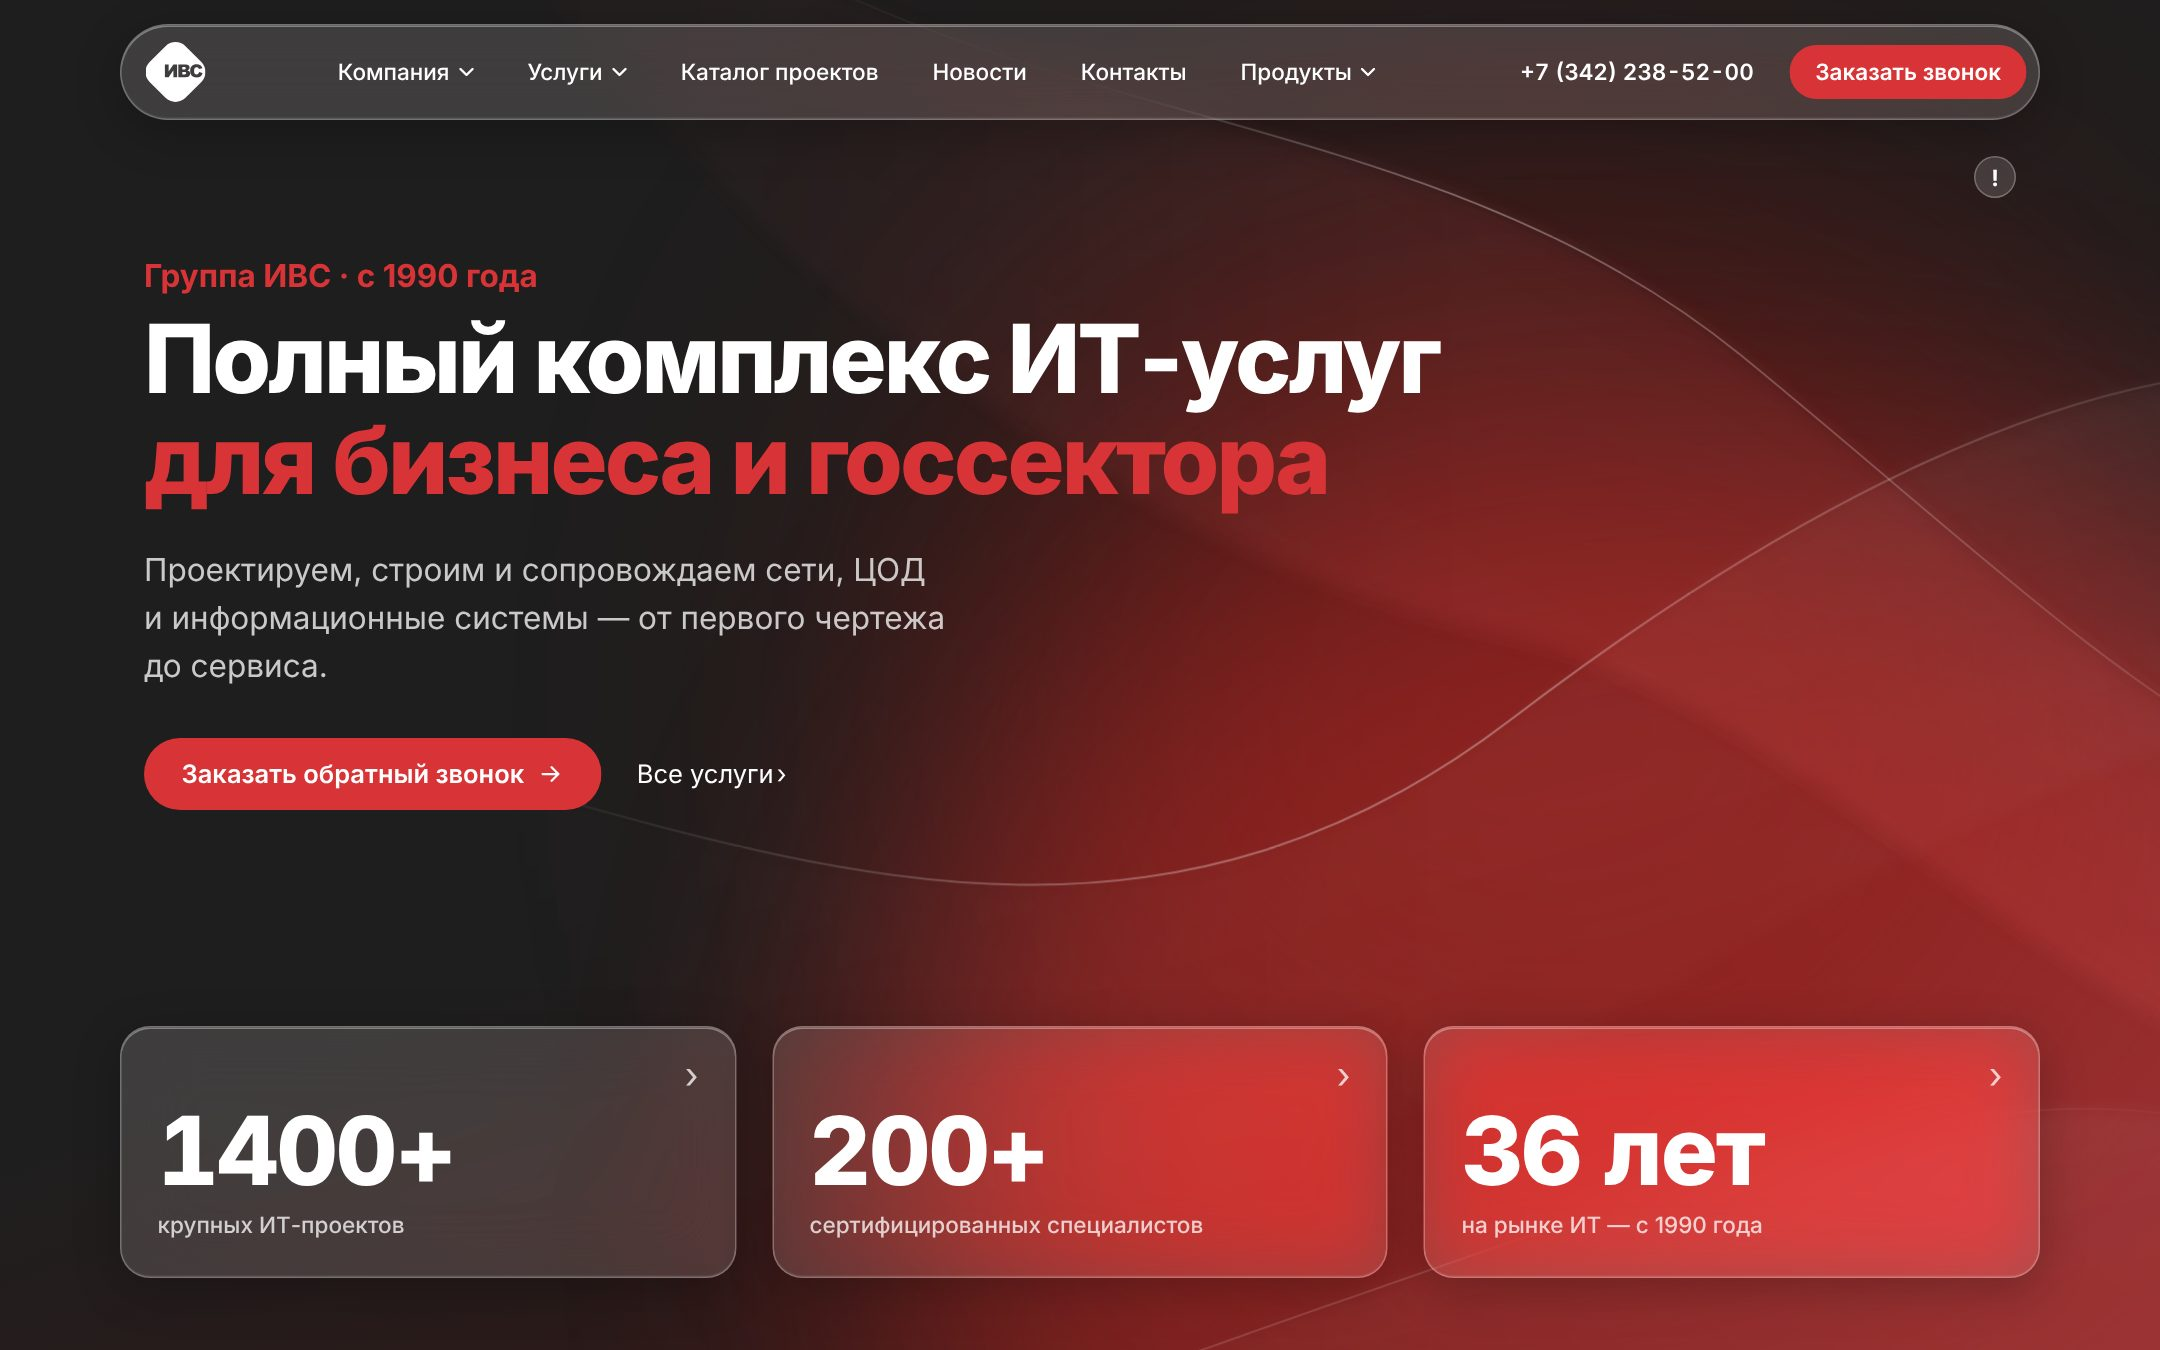
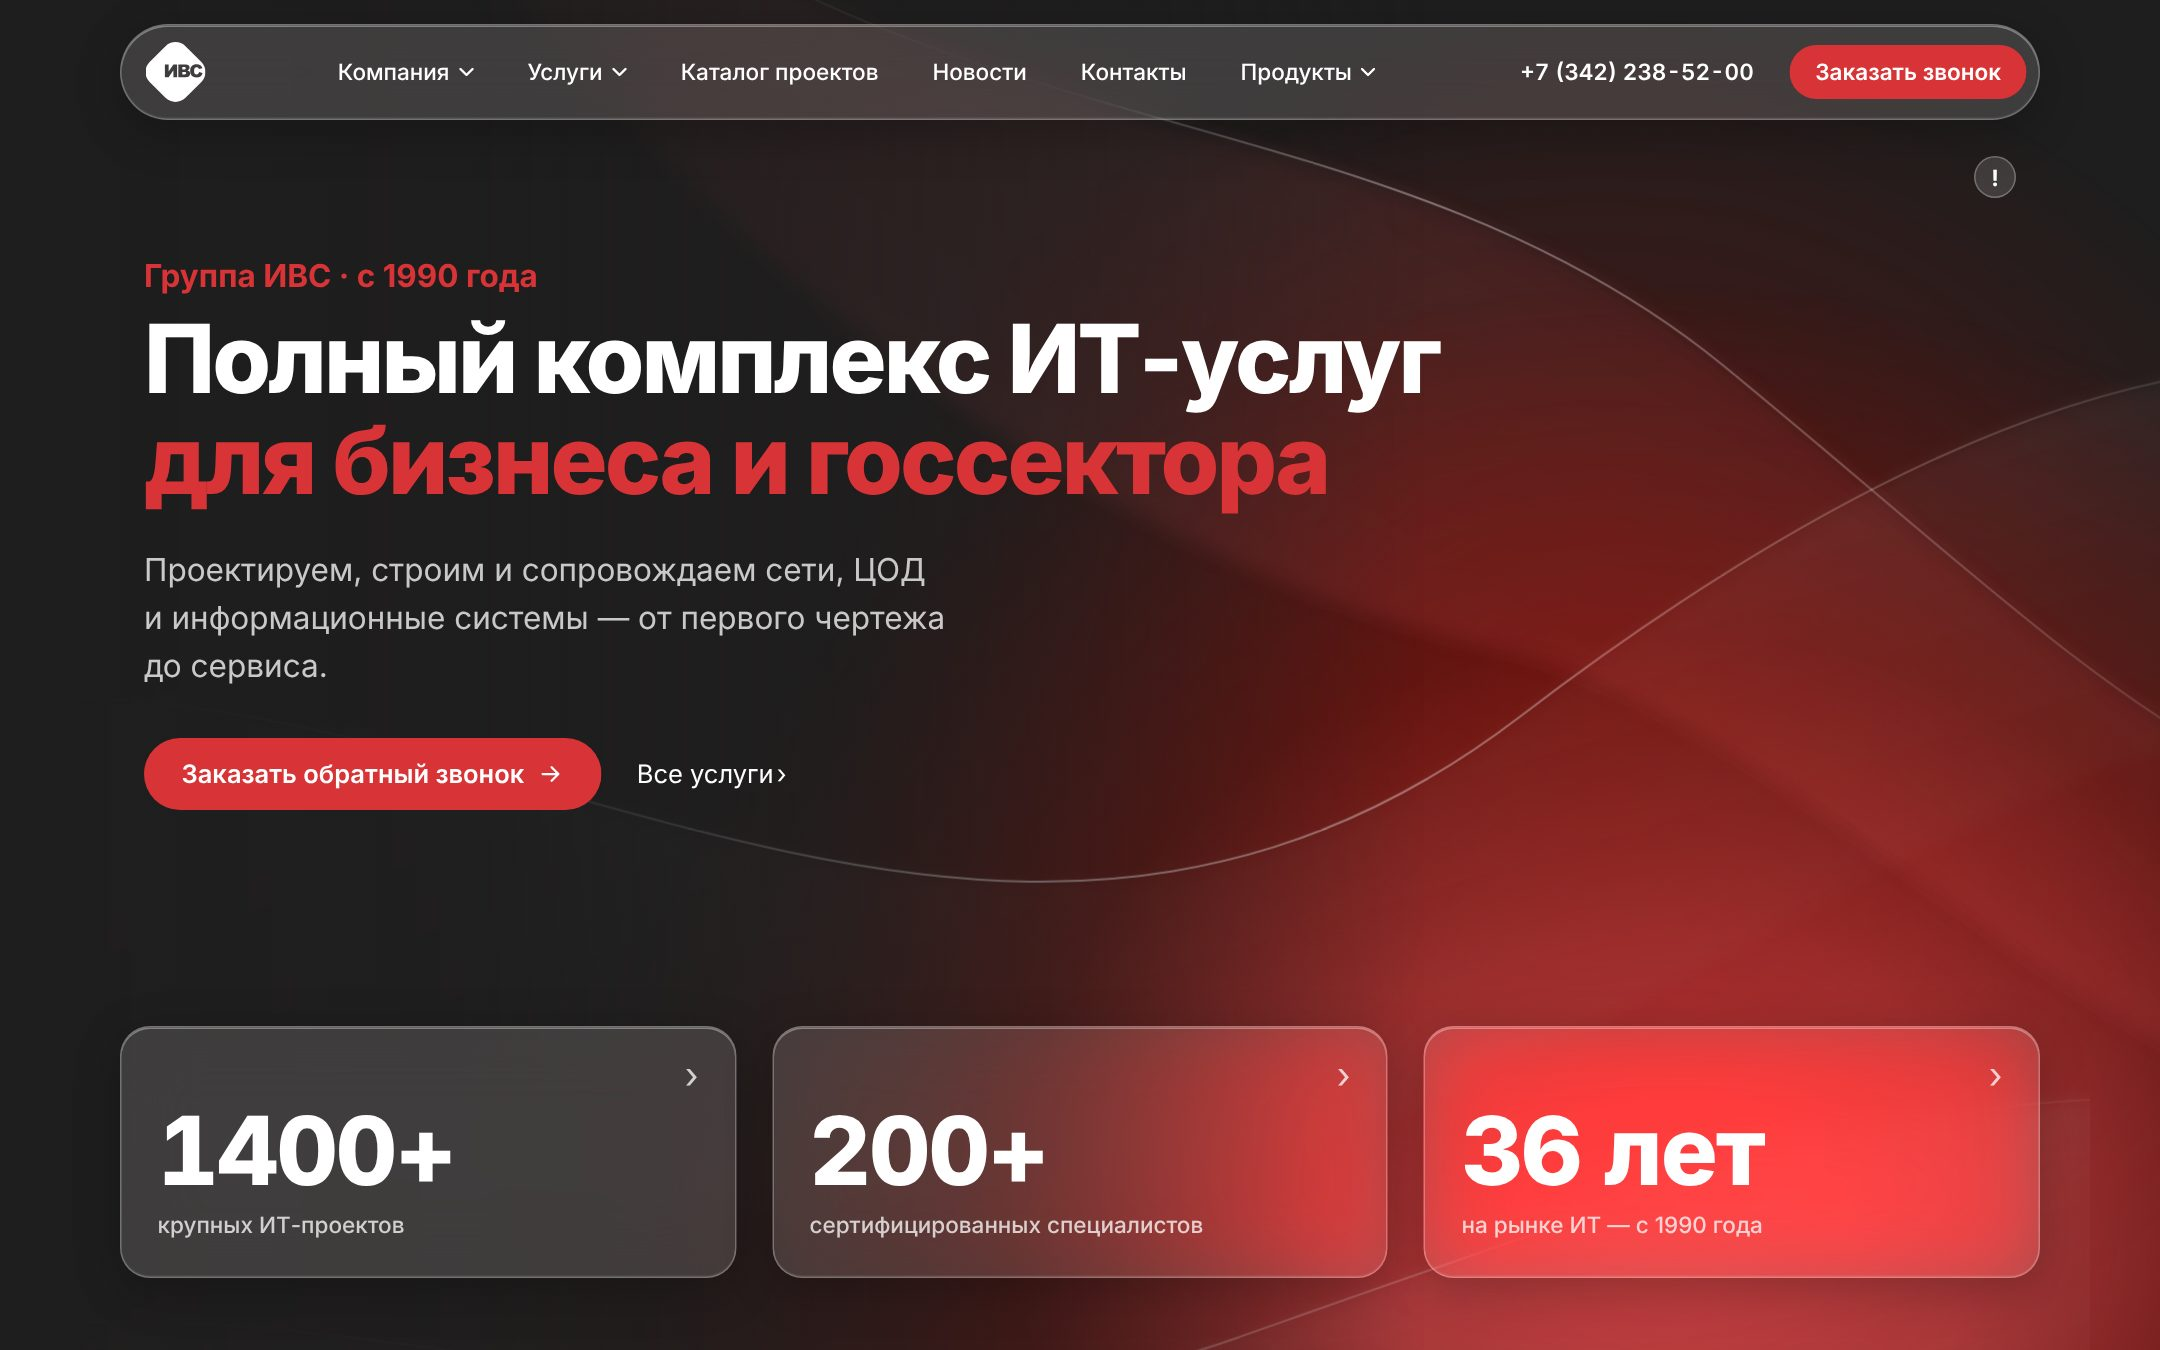
Вариант 3: облегчён фон — анимации не должны вставать в Safari
Варианты 1 и 2 у Антона анимируются нормально, а вариант 3 — нет.
Отличие было в фоне: filter: blur(96–120px) на постоянно движущихся
пятнах, SVG-фильтр внутри анимированных лент и маска на движущемся
слое — Safari пересчитывает это каждый кадр.

- Свет — радиальные градиенты без filter (как в варианте 1).
- Каждая лента текстуры — отдельный <svg>-слой: растрируется один раз,
  двигается только transform.
- Маска заменена неподвижным затемнением слева.

Claude-Session: https://claude.ai/code/session_013YVzMjnByXRWr34o2jWeTj

diff --git a/app/v3/v3.module.css b/app/v3/v3.module.css
@@ -38,6 +38,10 @@
   position: absolute;
 }
 
+/* Фон собран только из лёгких слоёв: радиальные градиенты без filter, ленты-SVG растрируются один раз,
+   двигается всё через transform. Тяжёлые filter: blur() и маски на движущихся слоях Safari пересчитывает
+   каждый кадр — анимации встают. */
+
 /* слои параллакса: с запасом по краям, чтобы при сдвиге за мышью не открывался край */
 .layerGlow,
 .layerTexture {
@@ -46,35 +50,42 @@
 }
 
 .layerGlow > *,
-.layerTexture > * {
+.texIntro > * {
   position: absolute;
 }
 
-/* фирменный красный свет — в правом нижнем углу, как .ivs-stage::before в ДС: gradient-brand, размытый.
-   Левая часть экрана остаётся графитовой — под текстом спокойно. */
+.texIntro {
+  position: absolute;
+  inset: 0;
+}
+
+/* фирменный красный свет — в правом нижнем углу: точки gradient-brand (red_light → red_deep),
+   разведённые радиальным градиентом. Левая часть остаётся графитовой — под текстом спокойно. */
 .glow {
-  right: -16%;
-  bottom: -34%;
-  width: 72%;
-  height: 92%;
-  border-radius: var(--radius-full);
-  background: var(--gradient-brand);
-  opacity: 0.62;
-  filter: blur(96px);
+  right: -22%;
+  bottom: -48%;
+  width: 90%;
+  height: 120%;
+  border-radius: 50%;
+  background: radial-gradient(
+    closest-side,
+    rgba(216, 67, 70, 0.95) 0%,
+    rgba(216, 67, 70, 0.7) 30%,
+    rgba(136, 19, 12, 0.42) 62%,
+    rgba(136, 19, 12, 0) 100%
+  );
   will-change: transform;
   animation: breathe 9s cubic-bezier(0.45, 0, 0.55, 1) infinite alternate;
 }
 
-/* глубокий подсвет над основным — растягивает переход «тёмный → красный» по диагонали к центру справа */
+/* глубокий подсвет — растягивает переход «тёмный → красный» по диагонали к центру справа */
 .glowSide {
-  right: 4%;
-  top: 18%;
-  width: 46%;
-  height: 60%;
-  border-radius: var(--radius-full);
-  background: var(--red_deep);
-  opacity: 0.45;
-  filter: blur(120px);
+  right: -6%;
+  top: 4%;
+  width: 60%;
+  height: 84%;
+  border-radius: 50%;
+  background: radial-gradient(closest-side, rgba(136, 19, 12, 0.55) 0%, rgba(136, 19, 12, 0) 100%);
   will-change: transform;
   animation: drift 11s cubic-bezier(0.45, 0, 0.55, 1) infinite alternate;
   animation-delay: -4s;
@@ -92,14 +103,17 @@
   }
 }
 
-/* стеклянная текстура: правая половина экрана; к тексту слева гаснет */
-.glassSvg,
+/* ленты стекла: каждая — свой слой, плывёт через transform */
+.band,
 .textureImg {
   inset: 0;
   width: 100%;
   height: 100%;
-  mask-image: linear-gradient(90deg, transparent 18%, rgba(0, 0, 0, 0.35) 42%, #000 68%);
-  -webkit-mask-image: linear-gradient(90deg, transparent 18%, rgba(0, 0, 0, 0.35) 42%, #000 68%);
+}
+
+.band {
+  will-change: transform;
+  animation: float 12s cubic-bezier(0.45, 0, 0.55, 1) infinite alternate;
 }
 
 .textureImg {
@@ -108,19 +122,13 @@
   mix-blend-mode: screen;
 }
 
-.glassBandA,
-.glassBandB,
-.glassBandC {
-  animation: float 12s cubic-bezier(0.45, 0, 0.55, 1) infinite alternate;
-}
-
-.glassBandB {
+.bandB {
   animation-name: floatBack;
   animation-duration: 15s;
   animation-delay: -6s;
 }
 
-.glassBandC {
+.bandC {
   animation-duration: 10s;
   animation-delay: -3s;
 }
@@ -135,6 +143,12 @@
   to {
     transform: translate3d(110px, -60px, 0);
   }
+}
+
+/* затемнение слева — цвет gradient-ink; текстура и свет гаснут к тексту */
+.shade {
+  inset: 0;
+  background: linear-gradient(90deg, #1f1e1e 0%, rgba(31, 30, 30, 0.92) 22%, rgba(31, 30, 30, 0.55) 42%, rgba(31, 30, 30, 0) 66%);
 }
 
 /* ================= Шапка — NavBar ДС в «жидком стекле» ================= */
@@ -841,36 +855,27 @@
   opacity: 0;
 }
 
-:global(.ivs-motion) .glassSvg,
-:global(.ivs-motion) .textureImg {
+:global(.ivs-motion) .texIntro {
   opacity: 0;
   transform: scale(1.08);
 }
 
 .hero[data-visible] .glow {
-  opacity: 0.62;
+  opacity: 1;
   transition: opacity 1400ms var(--ease-out);
 }
 
 .hero[data-visible] .glowSide {
-  opacity: 0.5;
+  opacity: 1;
   transition: opacity 1400ms var(--ease-out) 200ms;
 }
 
-.hero[data-visible] .glassSvg,
-.hero[data-visible] .textureImg {
+.hero[data-visible] .texIntro {
+  opacity: 1;
   transform: none;
   transition:
     opacity 1600ms var(--ease-out) 100ms,
     transform 1800ms var(--ease-out) 100ms;
-}
-
-.hero[data-visible] .glassSvg {
-  opacity: 1;
-}
-
-.hero[data-visible] .textureImg {
-  opacity: 0.5;
 }
 
 /* ================= Hover — только мышь ================= */
@@ -1067,15 +1072,13 @@
 @media (prefers-reduced-motion: reduce) {
   .glow,
   .glowSide,
-  .glassBandA,
-  .glassBandB,
-  .glassBandC {
+  .band {
     animation: none;
   }
   :global(.ivs-motion) .reveal,
   .hero[data-visible] .reveal,
-  :global(.ivs-motion) .glassSvg,
-  .hero[data-visible] .glassSvg {
+  :global(.ivs-motion) .texIntro,
+  .hero[data-visible] .texIntro {
     transform: none;
     transition: opacity var(--duration-fast) linear;
   }

diff --git a/app/v3/GlassTexture.tsx b/app/v3/GlassTexture.tsx
@@ -1,43 +1,69 @@
 import s from "./v3.module.css";
 
-// Временная фоновая текстура — абстрактное «стекло»: широкие полупрозрачные ленты с бликом по краю.
+// Временная фоновая текстура — абстрактное «стекло»: широкие полупрозрачные ленты с бликом по кромке.
+// Каждая лента — отдельный <svg>: браузер растрирует её один раз и дальше только сдвигает слой (transform),
+// без перерисовки фильтров на каждом кадре — иначе Safari «захлёбывается».
 // Когда будет готова картинка, путь к ней передаётся в Hero (TEXTURE), и этот слой не рисуется.
-export function GlassTexture() {
+
+
+function Band({ id, className, fill, d, edge, edgeOpacity = 1 }: { id: string; className?: string; fill: React.ReactNode; d: string; edge: string; edgeOpacity?: number }) {
   return (
-    <svg className={s.glassSvg} viewBox="0 0 1440 900" preserveAspectRatio="xMidYMid slice" aria-hidden="true">
+    <svg className={className ? `${s.band} ${className}` : s.band} viewBox="0 0 1440 900" preserveAspectRatio="xMidYMid slice" aria-hidden="true">
       <defs>
-        <linearGradient id="v3-fill" x1="0" y1="0" x2="1" y2="1">
-          <stop offset="0" stopColor="#ffffff" stopOpacity="0.13" />
-          <stop offset="0.55" stopColor="#ffffff" stopOpacity="0.03" />
-          <stop offset="1" stopColor="#ffffff" stopOpacity="0" />
-        </linearGradient>
-        <linearGradient id="v3-fill-red" x1="0" y1="1" x2="1" y2="0">
-          <stop offset="0" stopColor="#ff5a5e" stopOpacity="0.22" />
-          <stop offset="1" stopColor="#ff5a5e" stopOpacity="0" />
-        </linearGradient>
-        <linearGradient id="v3-edge" x1="0" y1="0" x2="1" y2="0">
+        {fill}
+        <linearGradient id={`${id}-edge`} x1="0" y1="0" x2="1" y2="0">
           <stop offset="0" stopColor="#ffffff" stopOpacity="0" />
           <stop offset="0.45" stopColor="#ffffff" stopOpacity="0.55" />
           <stop offset="1" stopColor="#ffffff" stopOpacity="0" />
         </linearGradient>
-        <filter id="v3-soft" x="-10%" y="-10%" width="120%" height="120%">
+        <filter id={`${id}-soft`} x="-10%" y="-10%" width="120%" height="120%">
           <feGaussianBlur stdDeviation="6" />
         </filter>
       </defs>
-
-      {/* ленты «стекла»: заливка + тонкий блик по верхней кромке */}
-      <g className={s.glassBandA}>
-        <path d="M-120 520 C 260 300, 620 760, 1000 470 S 1560 260, 1600 300 L 1600 470 C 1300 430, 1100 700, 760 760 S 120 640, -120 760 Z" fill="url(#v3-fill)" filter="url(#v3-soft)" />
-        <path d="M-120 520 C 260 300, 620 760, 1000 470 S 1560 260, 1600 300" fill="none" stroke="url(#v3-edge)" strokeWidth="1.2" />
-      </g>
-      <g className={s.glassBandB}>
-        <path d="M300 -60 C 520 180, 820 120, 1040 300 S 1380 620, 1560 560 L 1560 760 C 1320 820, 1120 520, 900 470 S 420 260, 220 -60 Z" fill="url(#v3-fill-red)" filter="url(#v3-soft)" />
-        <path d="M300 -60 C 520 180, 820 120, 1040 300 S 1380 620, 1560 560" fill="none" stroke="url(#v3-edge)" strokeWidth="1" opacity="0.7" />
-      </g>
-      <g className={s.glassBandC}>
-        <path d="M-80 880 C 300 700, 560 940, 900 820 S 1400 640, 1560 700 L 1560 980 L -80 980 Z" fill="url(#v3-fill)" filter="url(#v3-soft)" />
-        <path d="M-80 880 C 300 700, 560 940, 900 820 S 1400 640, 1560 700" fill="none" stroke="url(#v3-edge)" strokeWidth="1" opacity="0.6" />
-      </g>
+      <path d={d} fill={`url(#${id}-fill)`} filter={`url(#${id}-soft)`} />
+      <path d={edge} fill="none" stroke={`url(#${id}-edge)`} strokeWidth="1.2" opacity={edgeOpacity} />
     </svg>
+  );
+}
+
+const whiteFill = (id: string) => (
+  <linearGradient id={`${id}-fill`} x1="0" y1="0" x2="1" y2="1">
+    <stop offset="0" stopColor="#ffffff" stopOpacity="0.13" />
+    <stop offset="0.55" stopColor="#ffffff" stopOpacity="0.03" />
+    <stop offset="1" stopColor="#ffffff" stopOpacity="0" />
+  </linearGradient>
+);
+
+export function GlassTexture() {
+  return (
+    <>
+      <Band
+        id="v3a"
+        fill={whiteFill("v3a")}
+        d="M-120 520 C 260 300, 620 760, 1000 470 S 1560 260, 1600 300 L 1600 470 C 1300 430, 1100 700, 760 760 S 120 640, -120 760 Z"
+        edge="M-120 520 C 260 300, 620 760, 1000 470 S 1560 260, 1600 300"
+      />
+      <Band
+        id="v3b"
+        className={s.bandB}
+        fill={
+          <linearGradient id="v3b-fill" x1="0" y1="1" x2="1" y2="0">
+            <stop offset="0" stopColor="#ff5a5e" stopOpacity="0.22" />
+            <stop offset="1" stopColor="#ff5a5e" stopOpacity="0" />
+          </linearGradient>
+        }
+        d="M300 -60 C 520 180, 820 120, 1040 300 S 1380 620, 1560 560 L 1560 760 C 1320 820, 1120 520, 900 470 S 420 260, 220 -60 Z"
+        edge="M300 -60 C 520 180, 820 120, 1040 300 S 1380 620, 1560 560"
+        edgeOpacity={0.7}
+      />
+      <Band
+        id="v3c"
+        className={s.bandC}
+        fill={whiteFill("v3c")}
+        d="M-80 880 C 300 700, 560 940, 900 820 S 1400 640, 1560 700 L 1560 980 L -80 980 Z"
+        edge="M-80 880 C 300 700, 560 940, 900 820 S 1400 640, 1560 700"
+        edgeOpacity={0.6}
+      />
+    </>
   );
 }

diff --git a/app/v3/Hero.tsx b/app/v3/Hero.tsx
@@ -84,8 +84,12 @@ export function Hero() {
           <span className={s.glowSide} />
         </div>
         <div className={s.layerTexture} ref={texRef}>
-          {TEXTURE ? <img src={TEXTURE} alt="" className={s.textureImg} /> : <GlassTexture />}
+          <div className={s.texIntro}>
+            {TEXTURE ? <img src={TEXTURE} alt="" className={s.textureImg} /> : <GlassTexture />}
+          </div>
         </div>
+        {/* неподвижное затемнение слева — текстура гаснет к тексту (вместо маски на движущемся слое) */}
+        <span className={s.shade} />
       </div>
 
       <Header />
